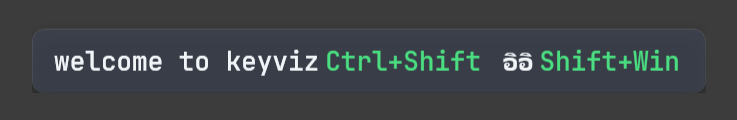
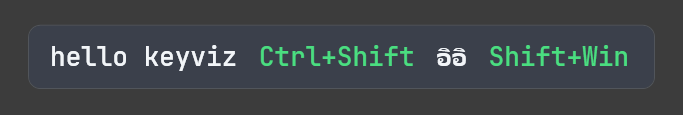
fix: remove shadow from keystroke bubble

Changed region(s): [[0.0615, 0.3913, 0.9224, 0.6261], [0.0615, 0.7565, 0.9531, 0.7826], [0.0615, 0.2087, 0.9531, 0.2348]]

diff --git a/MainWindow.xaml b/MainWindow.xaml
@@ -23,13 +23,6 @@
                 BorderThickness="1"
                 CornerRadius="12"
                 Opacity="0">
-            <Border.Effect>
-                <DropShadowEffect BlurRadius="24"
-                                  Color="{StaticResource Theme.ShadowColor}"
-                                  Direction="270"
-                                  Opacity="0.55"
-                                  ShadowDepth="8" />
-            </Border.Effect>
             <ScrollViewer x:Name="TokenScroller"
                           HorizontalScrollBarVisibility="Hidden"
                           VerticalScrollBarVisibility="Disabled">